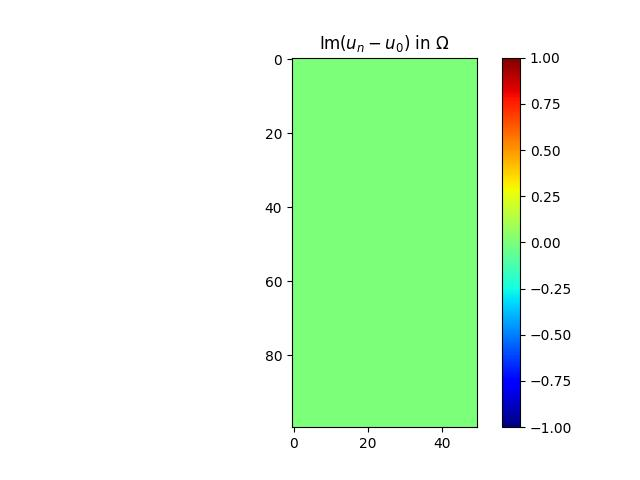
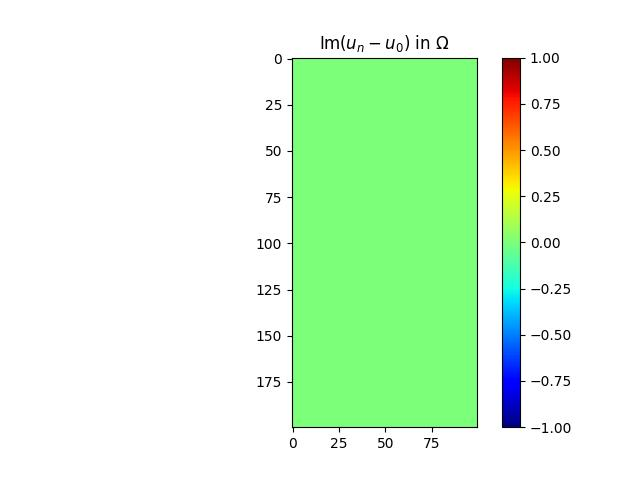
merge problème

diff --git a/demo_control_polycopie2023.py b/demo_control_polycopie2023.py
@@ -94,9 +94,9 @@ if __name__ == '__main__':
     # -- Fell free to modify the function call in this cell.
     # ----------------------------------------------------------------------
     # -- set parameters of the geometry
-    N = 50  # number of points along x-axis
+    N = 100  # number of points along x-axis
     M = 2 * N  # number of points along y-axis
-    level = 0 # level of the fractal
+    level = 3 # level of the fractal
     spacestep = 1.0 / N  # mesh size
 
     # -- set parameters of the partial differential equation
@@ -116,6 +116,7 @@ if __name__ == '__main__':
 
     # -- set geometry of domain
     domain_omega, x, y, _, _ = preprocessing._set_geometry_of_domain(M, N, level)
+    #print("domain_omega",domain_omega)
 
     # ----------------------------------------------------------------------
     # -- Fell free to modify the function call in this cell.
@@ -163,6 +164,8 @@ if __name__ == '__main__':
     chi0 = chi.copy()
     u0 = u.copy()
 
+    print("shape chi0:",chi0.shape)
+    print("shape u0:",np.real(u0[0:N]))
     # ----------------------------------------------------------------------
     # -- Fell free to modify the function call in this cell.
     # ----------------------------------------------------------------------
@@ -176,6 +179,9 @@ if __name__ == '__main__':
 
     chin = chi.copy()
     un = u.copy()
+
+    print("shape chin:",chin.shape)
+    print("shape ub:",un.shape)
 
     # -- plot chi, u, and energy
     postprocessing._plot_uncontroled_solution(u0, chi0)
